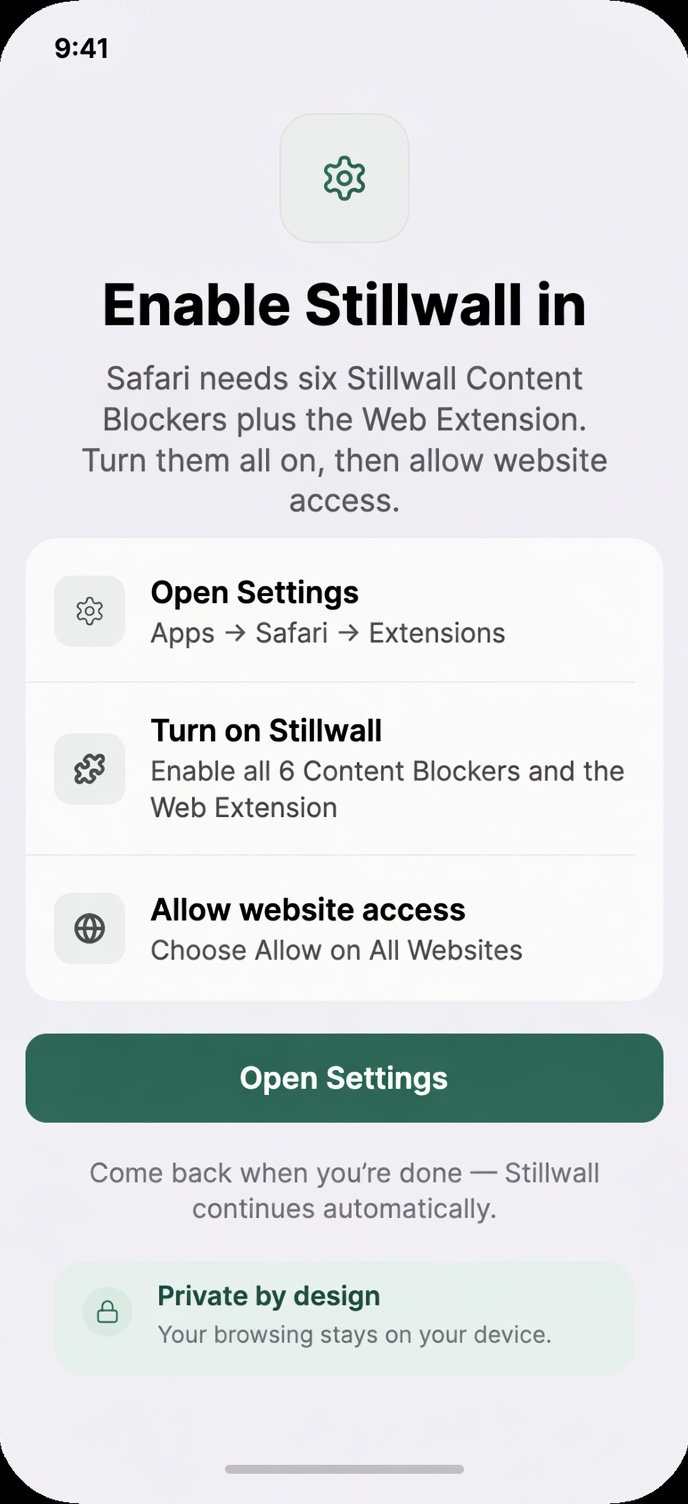
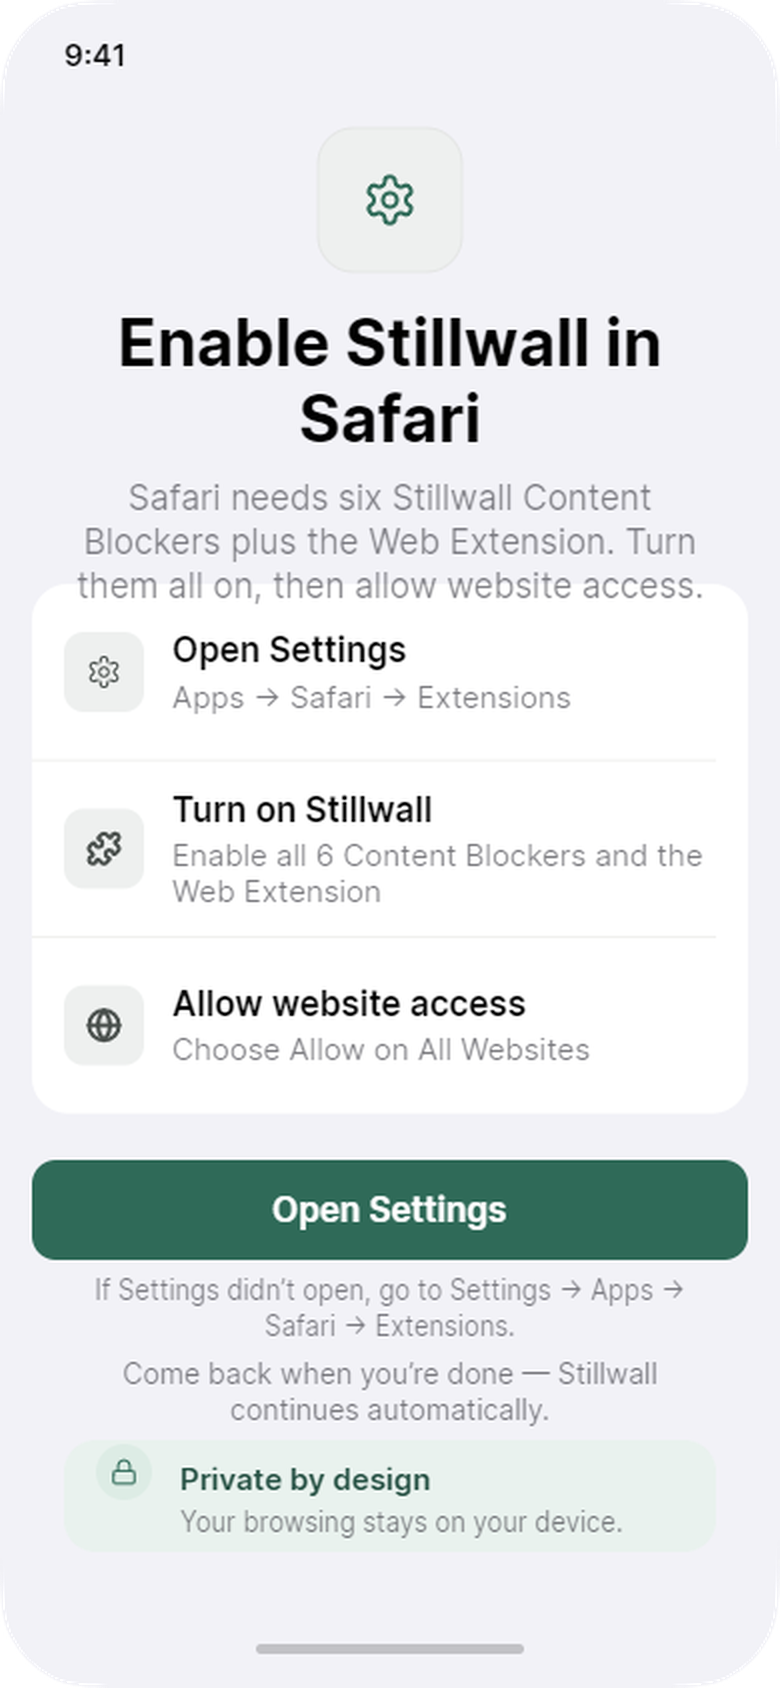
Audit issue coverage: reopen 009, strengthen 003/006/005, add 010.
Ensure product/design optimizations that need work are open developer-facing issues. Fix false done on Help, make D-511 and secondary UI explicit acceptance criteria, and track D-512 store frame titles as issue 010.

diff --git a/Gleem/issues/README.md b/Gleem/issues/README.md
@@ -1,53 +1,69 @@
 # Issues
 
-Stillwall（Gleem）App **开发完成后的页面 / 功能问题** 与修改说明。
+Stillwall（Gleem）**开发任务入口**。产品/设计优化必须落到本目录 issue，开发才按此改。
 
-- **规则（Agent 与协作者必读）：** [AGENTS.md](./AGENTS.md)
-- **组织方式：** `NNN-short-slug/` 子文件夹，一 issue 一目录，序号递增
-- **读者：** 主要给开发人员——现象、期望、怎么改、截图与验收
-- **英文 UI 源：** [`docs/engineering/ui-copy-en.md`](../docs/engineering/ui-copy-en.md)
+- **规则：** [AGENTS.md](./AGENTS.md)  
+- **英文 UI 源：** [`docs/engineering/ui-copy-en.md`](../docs/engineering/ui-copy-en.md)  
+- **原则：** 只写在 design/decision 文档、**未** open issue 的项 = **不触发开发**
 
 ## 索引
 
-| 序号 | 目录 | 标题 | 状态 | 优先级 |
-|------|------|------|------|--------|
-| 001 | [001-home-neutral-hero](./001-home-neutral-hero/) | Home 去掉 On/Safari Protection 状态区，改为中性价值文案 | open · 规格就绪 | P0 |
-| 002 | [002-filter-progress-copy](./002-filter-progress-copy/) | 规则编译进度条：英文 + 品牌软提示视觉 | open · 规格就绪 | P1 |
-| 003 | [003-setup-open-settings](./003-setup-open-settings/) | Setup 深链失败体验 + 三步诚实文案 + 去误导金勾 | open · 规格/设计目标就绪 | P1 |
-| 004 | [004-pro-pricing-and-cancel-ux](./004-pro-pricing-and-cancel-ux/) | Pro 定价 $14.99 + 取消购买静默 + 付费墙调性 | open · 规格就绪 | P0/P1 |
-| 005 | [005-cross-screen-consistency](./005-cross-screen-consistency/) | 跨页文案锁定与视觉一致性（**D-510 已确认**） | open · 资产已刷 | P2 |
-| 006 | [006-secondary-and-extension-hifi](./006-secondary-and-extension-hifi/) | 次级页与 Safari 扩展 Hi-fi 债 | **partial** · HTML 预览 | P2 |
-| 007 | [007-support-trust-copy-d316](./007-support-trust-copy-d316/) | Support 废除「Home = On」/ both extensions / 旧 CTA | **done** | P0 |
-| 008 | [008-store-packaging-cta-domain](./008-store-packaging-cta-domain/) | 商店截图 CTA + 域名占位 → yilinglabs.com | **done** | P1 |
-| 009 | [009-help-recovery-path-copy](./009-help-recovery-path-copy/) | App Help 恢复路径文案（扩展 Pause；禁 Home On） | **done** · 规格 | P1 |
+| 序号 | 目录 | 标题 | 状态 | 优先级 | 谁做 |
+|------|------|------|------|--------|------|
+| 001 | [001-home-neutral-hero](./001-home-neutral-hero/) | Home 中性 Value Hero（去 On pill） | **open** | P0 | 开发 |
+| 002 | [002-filter-progress-copy](./002-filter-progress-copy/) | 规则进度条英文 + 品牌软提示 | **open** | P1 | 开发 |
+| 003 | [003-setup-open-settings](./003-setup-open-settings/) | Setup 深链 hint + 诚实三步 + **D-511 名称清单** | **open** | P1 | 开发 |
+| 004 | [004-pro-pricing-and-cancel-ux](./004-pro-pricing-and-cancel-ux/) | Pro $14.99 + 取消购买静默 | **open** | P0/P1 | 开发 |
+| 005 | [005-cross-screen-consistency](./005-cross-screen-consistency/) | 跨页文案 / `ui-copy-en` 单一源 | **open** | P2 | 开发 |
+| 006 | [006-secondary-and-extension-hifi](./006-secondary-and-extension-hifi/) | **次级页 + 扩展 UI 实现**（More/Tap/Feedback/About/SE） | **open** | P1 | 开发（Lunacy 可选） |
+| 007 | [007-support-trust-copy-d316](./007-support-trust-copy-d316/) | Support 信任文案（禁 Home=On） | **done** | P0 | 文档已完成 |
+| 008 | [008-store-packaging-cta-domain](./008-store-packaging-cta-domain/) | 商店框内 CTA + 域名 URL | **done** | P1 | 素材/文档已完成 |
+| 009 | [009-help-recovery-path-copy](./009-help-recovery-path-copy/) | **App Help 实现**（Pause 路径；禁 Home On） | **open** | P1 | 开发（规格已锁） |
+| 010 | [010-store-screenshot-titles-d512](./010-store-screenshot-titles-d512/) | 商店截图**框外** Title/Subtitle（D-512） | **open** | P1 | 设计/发布 |
 
 ## 建议开发顺序
 
-1. **主工程合入后：** **001**、**004**（与已确认产品决策直接冲突）  
-2. **002**、**003**（体验与文案一致性）  
-3. **005**（跨页 string catalog）  
-4. **009** 的 SwiftUI Help 页（文案已锁）  
-5. **006** Lunacy 正式 Hi-fi（HTML 预览可先开发）  
+1. **001**、**004**（与决策直接冲突）  
+2. **003**（含 D-511 清单）、**002**  
+3. **005**（string catalog）  
+4. **009** Help、**006** 次级页 + 扩展  
+5. **010** 上架前重出截图顶栏  
 
-**文档/上架侧已完成：** 007、008（Support + 商店 URL/截图）。
+**无需开发：** 007、008（已 done）。
 
-> **说明（2026-07-31）：** 本 monorepo `Gleem/` 当前**无** Swift/Xcode 源码。001–005 的实现动作需在主 App 工程中落地；仓库已提供 `ui-copy-en.md` + 更新后的 Hi-fi/商店像素目标。
+## 优化 → Issue 覆盖表（审计 2026-07-31）
 
-## 已锁定文案（D-510 · 2026-07-31）
+| 优化 / 决策 | 应触发谁 | Issue | 此前缺口 | 现状态 |
+|-------------|----------|-------|----------|--------|
+| Home 中性 hero / 去状态 pill | 开发 | **001** | — | open ✓ |
+| 进度条英文 | 开发 | **002** | — | open ✓ |
+| Setup 深链 + 诚实 6+1 + **名称清单 D-511** | 开发 | **003** | 清单仅一句带过 | **已写入修改说明+验收** ✓ |
+| $14.99 / 取消静默 | 开发 | **004** | — | open ✓ |
+| 跨页文案 + ui-copy 单一源 | 开发 | **005** | ui-copy 未钉进验收 | **已钉入** ✓ |
+| Welcome CTA D-510 | 开发 | **005**（+001 联验） | — | open ✓ |
+| More / Tap / Feedback / About / 扩展 UI | 开发 | **006** | 像「仅 Hi-fi 设计债」 | **改为 open 开发任务** ✓ |
+| Support 对外文案 | 文档 | **007** | — | done ✓ |
+| 商店框内 CTA + yilinglabs URL | 发布 | **008** | — | done ✓ |
+| Help 恢复路径 **App 页** | 开发 | **009** | 误标 done | **改回 open** ✓ |
+| 商店框外叙事 D-512 | 设计/发布 | **010** | 只在 screenshot-plan | **新建 010** ✓ |
+| 可选首次 Home tip | — | 009 可选 | 未产品确认 | 不强制 ✓ |
+| Lunacy 正式次级画板 | 设计 | 006 可选验收 | — | 不阻塞开发 ✓ |
+
+## 已锁定文案（摘录）
 
 | 项 | 权威 |
 |----|------|
-| Welcome CTA | `Set Up in Safari` |
-| Strict（含 Large Type） | `Stronger blocking · Use with care` |
-| Setup 能力描述 | 6 Content Blockers + Web Extension（勿 both extensions） |
-| 完整副文案表 | [005](./005-cross-screen-consistency/) · [ui-copy-en.md](../docs/engineering/ui-copy-en.md) |
+| Welcome CTA | `Set Up in Safari`（D-510） |
+| Strict | `Stronger blocking · Use with care` |
+| Setup | 6 CB + Web Extension + **D-511 名称清单** |
+| 完整表 | [005](./005-cross-screen-consistency/) · [ui-copy-en.md](../docs/engineering/ui-copy-en.md) |
 
-## 设计审计
+## 设计审计日志
 
 | 日期 | 说明 |
 |------|------|
-| 2026-07-31 | Hallmark 全局 review：Hi-fi 主路径人格统一；实现漂移见 001–004；跨页与债项见 005–006 |
-| 2026-07-31 | **Journey polish**：[`docs/design/journey-polish-review-2026-07-31.md`](../docs/design/journey-polish-review-2026-07-31.md)；007–009 创建并执行文档/商店侧 |
-| 2026-07-31 | **设计续作**：D-511 Setup 名称清单、D-512 商店截图叙事、secondary-screens + secondary-preview 完整包 |
+| 2026-07-31 | Hallmark + Journey polish；001–009 |
+| 2026-07-31 | D-511 / D-512 / secondary 规格 |
+| 2026-07-31 | **覆盖审计**：009 重开、003/005/006 补强、新建 **010** |
 
-新建 issue 后请更新本表。
+新建 issue 后请更新本表与覆盖表。

diff --git a/Gleem/issues/006-secondary-and-extension-hifi/README.md b/Gleem/issues/006-secondary-and-extension-hifi/README.md
@@ -2,13 +2,13 @@
 
 | 字段 | 内容 |
 |------|------|
-| 状态 | **partial**（规格 + 完整 HTML 预览已交付；Lunacy 正式画板仍待） |
-| 优先级 | P2（不阻塞主路径 001–005 开发；上架前建议有线框/说明对齐） |
-| 类型 | docs-sync / ui |
-| 影响范围 | More · Help · About · Feedback · Tap to Block 说明 · Safari 扩展 popup |
-| 相关文档 | `docs/design/screens.md` S05–S10；`docs/design/safari-extension.md`；`docs/design/extension-wireframes-se.md` |
+| 状态 | **open**（规格/HTML 已齐 · **App 次级页+扩展 UI 待开发**；Lunacy 正式板可选） |
+| 优先级 | **P1**（主路径后应实现；勿因标题含 Hi-fi 而只当设计债） |
+| 类型 | ui / copy / docs-sync |
+| 影响范围 | More · About · Feedback · Tap to Block 说明 · Safari 扩展 popup（Help 见 **009**） |
+| 相关文档 | `docs/design/secondary-screens.md`；`docs/design/safari-extension.md`；`docs/engineering/ui-copy-en.md` |
 | 创建日期 | 2026-07-31 |
-| 来源 | Hallmark 全局审计后续（产品确认登记债项） |
+| 来源 | Hallmark 全局审计 + 设计续作审计 |
 
 ## 问题现象
 
@@ -41,26 +41,49 @@
 1. 在 `Stillwall-HiFi-v1.free` Depth Pass 补齐画板并导出 PNG（关闭本 issue 的正式条件）  
 2. 视觉 **必须** 继承主路径 token；扩展 **无 IAP**（D-508）
 
-### 开发（在 Hi-fi 未出前）
+### 开发（**本 issue 主要关闭条件**）
 
-- 严格按 `screens.md` + `safari-extension.md` + `design-system.md` 实现，**不要**自创第二套风格。  
-- 扩展顶栏状态文案诚实：Protected / Paused / Off in app 等（见扩展规格）。  
-- 与主 App Home **001** 对齐：主 App 无保护 pill；扩展可表达站点状态。
+权威：[`secondary-screens.md`](../../docs/design/secondary-screens.md) + [`ui-copy-en.md`](../../docs/engineering/ui-copy-en.md) + 预览 HTML。  
+**不要**等 Lunacy 才开工；HTML 即可对稿。
+
+| 屏 | 必须实现 |
+|----|----------|
+| **S06 More** | Help / Feedback / About / Privacy / Website / Restore / Manage（无账号、无 Allowed Sites） |
+| **S05 Tap 说明** | 三步 + Pause 提示；Free → Upgrade CTA |
+| **S09 Feedback** | 类型 · 描述 · 可选域名 · **发送前预览** |
+| **S10 About** | 版本 · 定位句 · Acknowledgements 入口 · Mac coming soon 可选 |
+| **SE01 popup** | 仅 3 项；顶栏 Protected / Paused / Off in app / Not enabled；无 IAP |
+| **Help** | 归 **009**（勿在本 issue 重复关） |
+
+视觉：`surfaceGrouped` + r18 + 森绿主 CTA + PRO 仅暖金；与 **001** 一致：主 App 无保护 pill。
 
 ## 修改说明
 
 | 角色 | 动作 |
 |------|------|
-| 设计 | 补画板 → 导出 → 更新 `design/exports` 与 screens 链接 |
-| 开发 | 次级页与扩展跟规格；Hi-fi 到达后做视觉 diff |
-| 产品 | 本 issue 关闭条件：至少 More + SE01 + Tap 说明有可对稿图像 |
+| **开发** | 按上表实现次级页 + 扩展 popup；字符串走 `ui-copy-en` / 005 catalog |
+| 设计 | 可选：Lunacy 正式板 → PNG（增强对稿，**非**开发开工阻塞） |
+| 产品 | 关闭本 issue = **App 实现验收通过**（不是仅有 HTML） |
 
 ## 验收标准
 
-- [x] More / Tap 说明 / SE01 有与主路径 token 一致的视觉稿或导出 — **HTML：** `docs/design/exports/secondary-preview/`  
-- [ ] Lunacy Hi-fi 正式画板（仍建议补）  
-- [x] 扩展 popup 固定 3 项、无 IAP、无类别列表（预览 + 规格）  
-- [x] 文档索引链到 secondary-preview  
+### 规格 / 设计预览（已完成）
+
+- [x] secondary-screens 规格 + secondary-preview HTML  
+- [x] 扩展 3 项 / 无 IAP 写进规格  
+
+### 开发实现（**未完成**）
+
+- [ ] More 列表齐全且无违禁行  
+- [ ] Tap 说明页 + Free Upgrade 路径  
+- [ ] Feedback 发送前预览  
+- [ ] About 基础信息  
+- [ ] 扩展 popup 四态（至少 Protected + Not enabled；Paused / Off in app 逻辑正确）  
+- [ ] 无第二套主色/威胁仪表盘；无扩展内 IAP  
+
+### 可选
+
+- [ ] Lunacy Hi-fi 正式画板导出  
 
 ## 附件
 

diff --git a/Gleem/issues/009-help-recovery-path-copy/README.md b/Gleem/issues/009-help-recovery-path-copy/README.md
@@ -2,13 +2,14 @@
 
 | 字段 | 内容 |
 |------|------|
-| 状态 | **done**（文案/规格锁定；App 接入见 `ui-copy-en.md`） |
+| 状态 | **open**（规格已锁 · **App Help 页仍待开发实现**） |
 | 优先级 | **P1**（首次用户误杀时的可发现性；主路径 001–004 之后尽快） |
 | 类型 | copy / ui / docs-sync |
 | 影响范围 | 主 App · Help（S07）· 可选首次 Home 提示 · 与扩展入口说明 |
-| 相关文档 | charter §5.9–5.10；screens S07；T-EXT-07；V-002；`docs/design/journey-polish-review-2026-07-31.md` |
+| 相关文档 | charter §5.9–5.10；screens S07；T-EXT-07；V-002；`docs/engineering/ui-copy-en.md` §7；`docs/design/secondary-screens.md` |
 | 创建日期 | 2026-07-31 |
 | 来源 | Journey polish review 2026-07-31 |
+| 说明 | 2026-07-31 曾误标 done（仅规格完成）。**仅 issue open 才会触发开发**——已改回 open。 |
 
 ## 问题现象
 
@@ -74,18 +75,25 @@ Tip: If a site looks wrong, open the Stillwall extension in Safari and choose Pa
 
 ## 验收标准
 
-- [x] Help 含 Site broken → 扩展 Pause（及类别备选）— **文案已写**  
-- [x] 全文无「Home shows On」类成功标准 — **规格禁止**  
-- [x] CTA / 扩展数量表述与 D-510 一致  
-- [x] 打开扩展说明不依赖未验证死路径  
-- [ ] （可选 tip）产品确认后实现 — 非必须  
+### 规格（产品/设计 · 已完成）
 
-## 完成说明（2026-07-31）
+- [x] 正文锁定于 `ui-copy-en.md` §7  
+- [x] screens S07 / secondary-screens 已对齐  
+- [x] secondary-preview 有 Help 列表 + Site broken 详情  
+
+### 开发实现（**未完成 · 本 issue 关闭条件**）
+
+- [ ] App 内存在 Help 列表页（S07），含上表全部条目  
+- [ ] Site broken 详情（或等价展开）优先写扩展 **Pause on this site**  
+- [ ] 全文搜索无 Home protection On、无 `Set Up Safari Protection`、无含糊 *both extensions*  
+- [ ] 打开扩展说明不依赖未验证死路径  
+- [ ] （可选 tip）产品确认后再做 — 非本 issue 关闭条件  
+
+## 规格交付说明（2026-07-31）
 
 - 权威正文：`docs/engineering/ui-copy-en.md` §7  
-- `docs/design/screens.md` S07 已对齐  
-- 视觉临时稿：`docs/design/exports/secondary-preview/`（Help 列表）  
-- **App 内 SwiftUI Help 页**待主工程接入（本仓库无 iOS 源码）  
+- 视觉临时稿：`docs/design/exports/secondary-preview/`  
+- **关闭本 issue = App 内 Help 已实现并通过验收**，不是「文档写完」  
 
 ## 附件
 

diff --git a/Gleem/issues/010-store-screenshot-titles-d512/README.md b/Gleem/issues/010-store-screenshot-titles-d512/README.md
@@ -1,0 +1,55 @@
+# Issue 010：App Store 截图框外 Title/Subtitle 按 D-512 重生成
+
+| 字段 | 内容 |
+|------|------|
+| 状态 | **open** |
+| 优先级 | **P1**（上架上传前；不阻塞主 App 代码） |
+| 类型 | store / design / docs-sync |
+| 影响范围 | App Store 截图成片顶栏文案 · ASC 上传素材 |
+| 相关文档 | D-512；`docs/release/app-store-assets/screenshot-plan.md` |
+| 创建日期 | 2026-07-31 |
+| 来源 | 优化覆盖审计：D-512 仅写在 plan，**008 未包含框外顶栏重渲** |
+
+## 问题现象
+
+**008** 已处理：框内 Welcome CTA、Setup 诚实文案、域名 URL。  
+
+**未处理：** 成片**绿色顶栏** Title / Subtitle 仍可能是旧叙事（例如槽 2 *annoyances blocked* 绝对感）。  
+产品已锁定 **D-512** 柔化表，但开发/发布同学若只看「008 done」会以为商店素材全部 OK。
+
+## 期望结果
+
+按 [`screenshot-plan.md`](../../docs/release/app-store-assets/screenshot-plan.md) **Sequence 表**重生成（或手工改顶栏）全套：
+
+| Order | Title | Subtitle |
+|------:|-------|----------|
+| 1 | A quieter Safari, on your terms | Choose what stays out of your way |
+| 2 | A quieter Safari | Ads, trackers, and annoyances **stay out of your way** |
+| 3 | Enable in a few steps | Content blockers + extension in Safari |
+| 4 | Free core protection | Ads, privacy, annoyances—yours to control |
+| 5 | Pro tools when you need them | YouTube & X in Safari · Tap to Block |
+| 6 | Categories you control | Turn features on or off as you need |
+
+目录：`iphone-6.5-1242x2688/`、`iphone-6.5-1284x2778/`、`ipad-13/`（若上传 iPad）。
+
+框内 UI 保持 008 已刷新的 CTA / Setup 诚实文案。
+
+## 修改说明
+
+| 角色 | 动作 |
+|------|------|
+| 设计 / 发布 | 用现有 phone UI 源 + 新顶栏文案出成片 |
+| 产品 | 上传前对照 D-512 表逐张过目 |
+| 开发 | 通常无 App 代码改动 |
+
+## 验收标准
+
+- [ ] 三套尺寸（或实际上传套）顶栏与上表一致  
+- [ ] 无 *annoyances blocked* 等已否决绝对句  
+- [ ] 框内 Welcome CTA 仍为 `Set Up in Safari`  
+- [ ] screenshot-plan Connect 清单「按新 Title/Subtitle 重生成顶栏」已勾  
+
+## 附件
+
+- 权威表：`docs/release/app-store-assets/screenshot-plan.md`  
+- 相关 done：`issues/008-store-packaging-cta-domain/`（框内 + URL，不含本 issue）  

diff --git a/Gleem/issues/005-cross-screen-consistency/README.md b/Gleem/issues/005-cross-screen-consistency/README.md
@@ -131,12 +131,13 @@ Regional 与 YouTube & X 之间 **+8pt**，无分区标题。
 
 ## 修改说明（给开发）
 
-1. 建立单一文案源（`Localizable` / 常量表），Welcome / Home / Upgrade / Large Type 引用同一 key；短式用独立 `*.large` key，禁止手写分叉。  
-2. Setup 字符串按锁定块与 **003** 对齐；去掉 both extensions。  
-3. Welcome CTA **固定** `Set Up in Safari`；工程与下次设计导出、商店截图一并改掉旧串。  
-4. Home：Pro 区前 **+8pt**；其余 token 对齐 design-system。  
-5. Strict：标准与 Large Type **同一句** `Stronger blocking · Use with care`。  
-6. 与 **001–004** 一起验收时做 **四屏连滑**（Welcome→Setup→Home→Upgrade）。
+1. 建立单一文案源（`Localizable` / 常量表），**以仓库** [`docs/engineering/ui-copy-en.md`](../../docs/engineering/ui-copy-en.md) **为权威表**（含 Welcome/Setup/Home/Upgrade/**Setup D-511 清单**/Help/扩展）。  
+2. Welcome / Home / Upgrade / Large Type 引用同一 key；短式用独立 `*.large` key，禁止手写分叉。  
+3. Setup 字符串按锁定块与 **003** 对齐（含 D-511 checklist keys）；去掉 both extensions。  
+4. Welcome CTA **固定** `Set Up in Safari`。  
+5. Home：Pro 区前 **+8pt**；其余 token 对齐 design-system。  
+6. Strict：标准与 Large Type **同一句** `Stronger blocking · Use with care`。  
+7. 与 **001–004** 一起验收时做 **四屏连滑**（Welcome→Setup→Home→Upgrade）。  
 
 ### 文档
 
@@ -145,8 +146,9 @@ Regional 与 YouTube & X 之间 **+8pt**，无分区标题。
 
 ## 验收标准
 
+- [ ] 工程存在单一 string catalog，且与 `ui-copy-en.md` 主路径 key 对齐  
 - [ ] Home / Upgrade 副文案符合锁定表；Large Type Strict **不是** May affect some sites  
-- [ ] Setup 不再出现 both extensions；与 6 CB + Web Extension 一致  
+- [ ] Setup 不再出现 both extensions；与 6 CB + Web Extension 一致（清单实现见 **003**）  
 - [ ] Welcome CTA **仅** `Set Up in Safari`，全项目无第三种主 CTA 说法  
 - [ ] 主色 / 圆角 / 单主 CTA / PRO 仅暖金 四屏抽检通过  
 - [ ] Home Free 行无多余领先图标；Pro 区前 +8pt；Pro 仅金 badge  

diff --git a/Gleem/issues/003-setup-open-settings/README.md b/Gleem/issues/003-setup-open-settings/README.md
@@ -67,7 +67,14 @@ Settings → Apps → Safari → Extensions
    - `user cancelled` / 无法打开 → hint  
    - 真异常（极少）→ 可短 toast，仍附手动路径  
 3. 可选增强（P2，非必须）：检测权限已满足时自动 dismiss Setup / 进入 Home（若已有则保持）。  
-4. 勿弱化「必须全开」的说明；误开不全会导致「以为开了但不拦」。
+4. 勿弱化「必须全开」的说明；误开不全会导致「以为开了但不拦」。  
+5. **D-511 名称清单（必做，非可选）：**  
+   - Step 2 下方展示静态列表（key 见 `ui-copy-en.md`：`setup.step2.checklist_*`）  
+   - 文案 lead：`Look for names starting with Stillwall:`  
+   - 项：Ads · Privacy · Annoyances · Social · Other · Security · **Web Extension**  
+   - **不要**做成可勾选任务或本地完成态；仅说明  
+   - 规格全文：`docs/design/setup-first-run.md`  
+   - 布局参考：`docs/design/exports/secondary-preview/` Setup 卡  
 
 ### 产品文档
 
@@ -111,6 +118,7 @@ Setup 是全 App **唯一允许略「任务感」** 的屏，但仍须：单主 
 - [ ] 深链失败时用户仍能靠页面文案完成手动设置  
 - [ ] 失败提示不表现为刺眼硬错误（或仅短暂出现后变为常驻 hint）  
 - [ ] 三步说明完整且诚实：Settings、**6 CB** + Web Extension、Allow All Websites  
+- [ ] **D-511：** Step 2 下方可见静态名称清单（6 CB 名 + Web Extension + lead 句）  
 - [ ] 未完成时顶图**无**「已完成」金勾误导（或仅完成态显示）  
 - [ ] 未完成授权不能进入 Home  
 - [ ] 英文 UI；副文案与步骤 2 不再写含糊的 “both extensions”  
